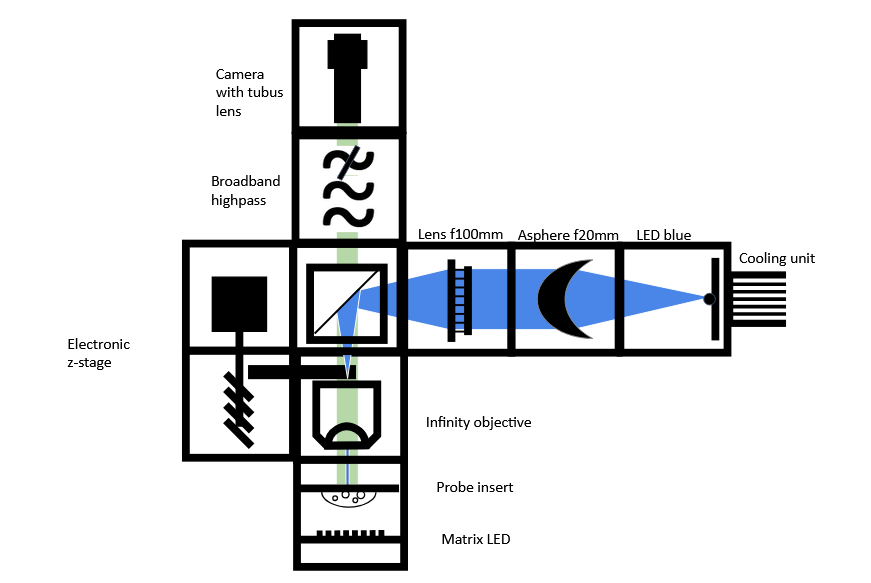
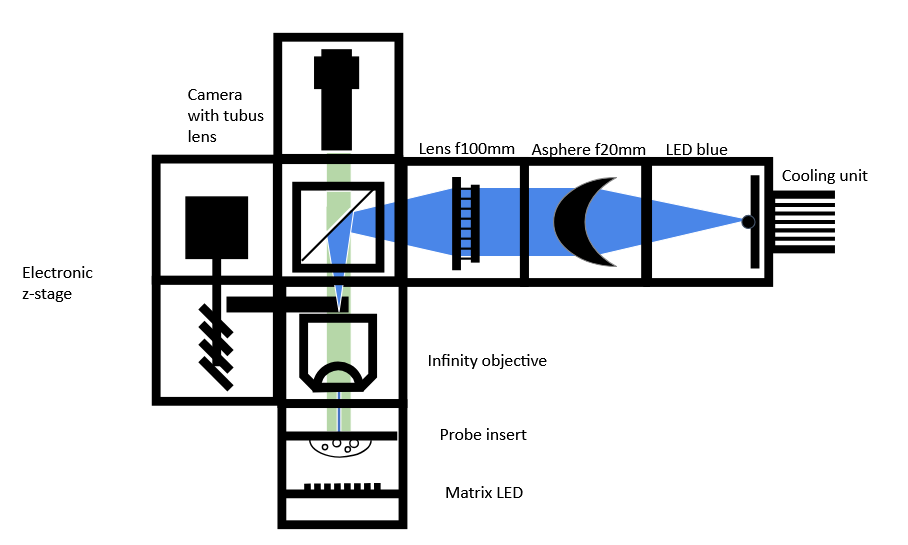
bilder

Changed region(s): [[0.031, 0.0312, 0.961, 0.9982]]

diff --git a/docs/01_Toolboxes/06_DiscoveryFluorescence/01_Fluoresence_smart_microscope.md b/docs/01_Toolboxes/06_DiscoveryFluorescence/01_Fluoresence_smart_microscope.md
@@ -26,7 +26,7 @@ In this workshop, we will guide you through assembling a LED-powered fluorescenc
 
 ### Diagram
 
-![](./IMAGES/diagramm.png)
+![](./IMAGES/diagramm_no_filter.png)
 ---
 
 ### Theory of Operation
